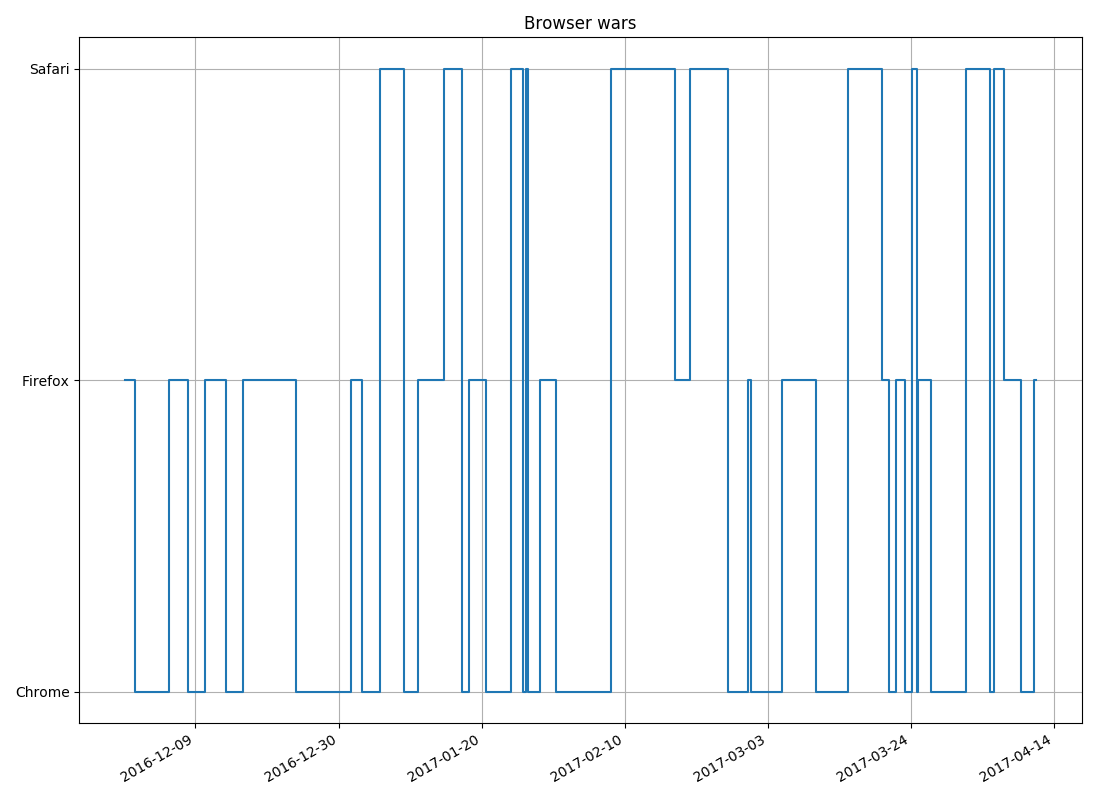
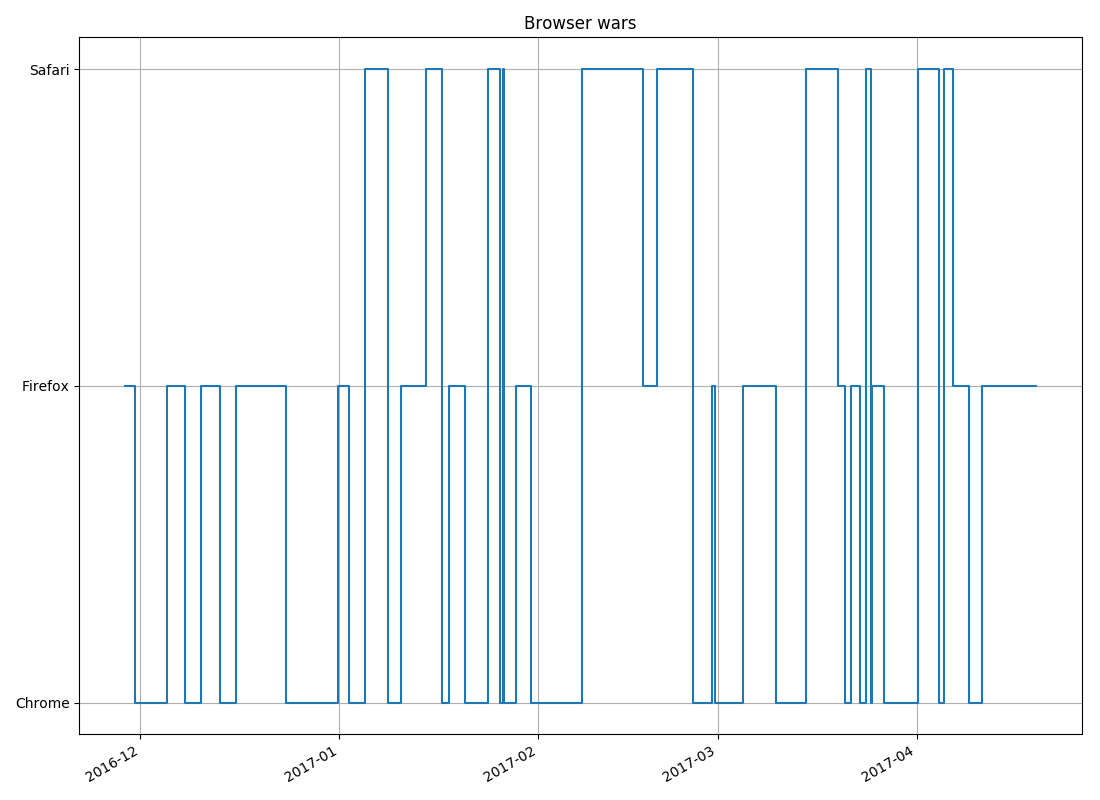
Add the current time to the counters
Previously, the only changes would happen when I changed browser. With
this new scheme, the current time is included so whatever I'm using at
the moment is considered.

diff --git a/analysis.py b/analysis.py
@@ -8,6 +8,7 @@ import subprocess as sp
 import os
 from contextlib import contextmanager
 import datetime
+from datetime import timezone
 
 plt.rc('figure', figsize=(11, 8))
 
@@ -95,6 +96,10 @@ def show_timeseries():
                 else:
                     raise ValueError('Should not reach here')
 
+    # Add on today
+    all_dates.append(datetime.datetime.now())
+    winning_browser.append(winning_browser[-1])
+
     fig, axis = plt.subplots()
     axis.plot(all_dates, winning_browser, drawstyle='steps-mid')
     axis.grid(True)
@@ -111,10 +116,12 @@ def show_timeseries():
 def show_breakdown():
     all_dates = sorted(list(extract_meta('log')), key=lambda row: row['date'])
     chrome_seconds, firefox_seconds, safari_seconds = 0, 0, 0
-    last = all_dates[0]['date']
+    first = all_dates[0]['date']
 
+    current_browser = None
     for entry in all_dates:
-        dt = (entry['date'] - last).seconds
+        dt = (entry['date'] - first).seconds
+        current_browser = entry['browser']
         if entry['browser'] == 'chrome':
             chrome_seconds += dt
         elif entry['browser'] == 'firefox':
@@ -123,6 +130,17 @@ def show_breakdown():
             safari_seconds += dt
         else:
             raise ValueError('Unexpected browser: {}'.format(entry['browser']))
+
+    # Add on today
+    print('Current browser should be: {}'.format(current_browser))
+    dt = (datetime.datetime.now(timezone.utc) - first).seconds
+
+    if current_browser == 'chrome':
+        chrome_seconds += dt
+    elif current_browser == 'firefox':
+        firefox_seconds += dt
+    elif current_browser == 'safari':
+        safari_seconds += dt
 
     fig, axis = plt.subplots()
     axis.bar([0, 1, 2], [chrome_seconds / 86400., firefox_seconds / 86400., safari_seconds / 86400.])
